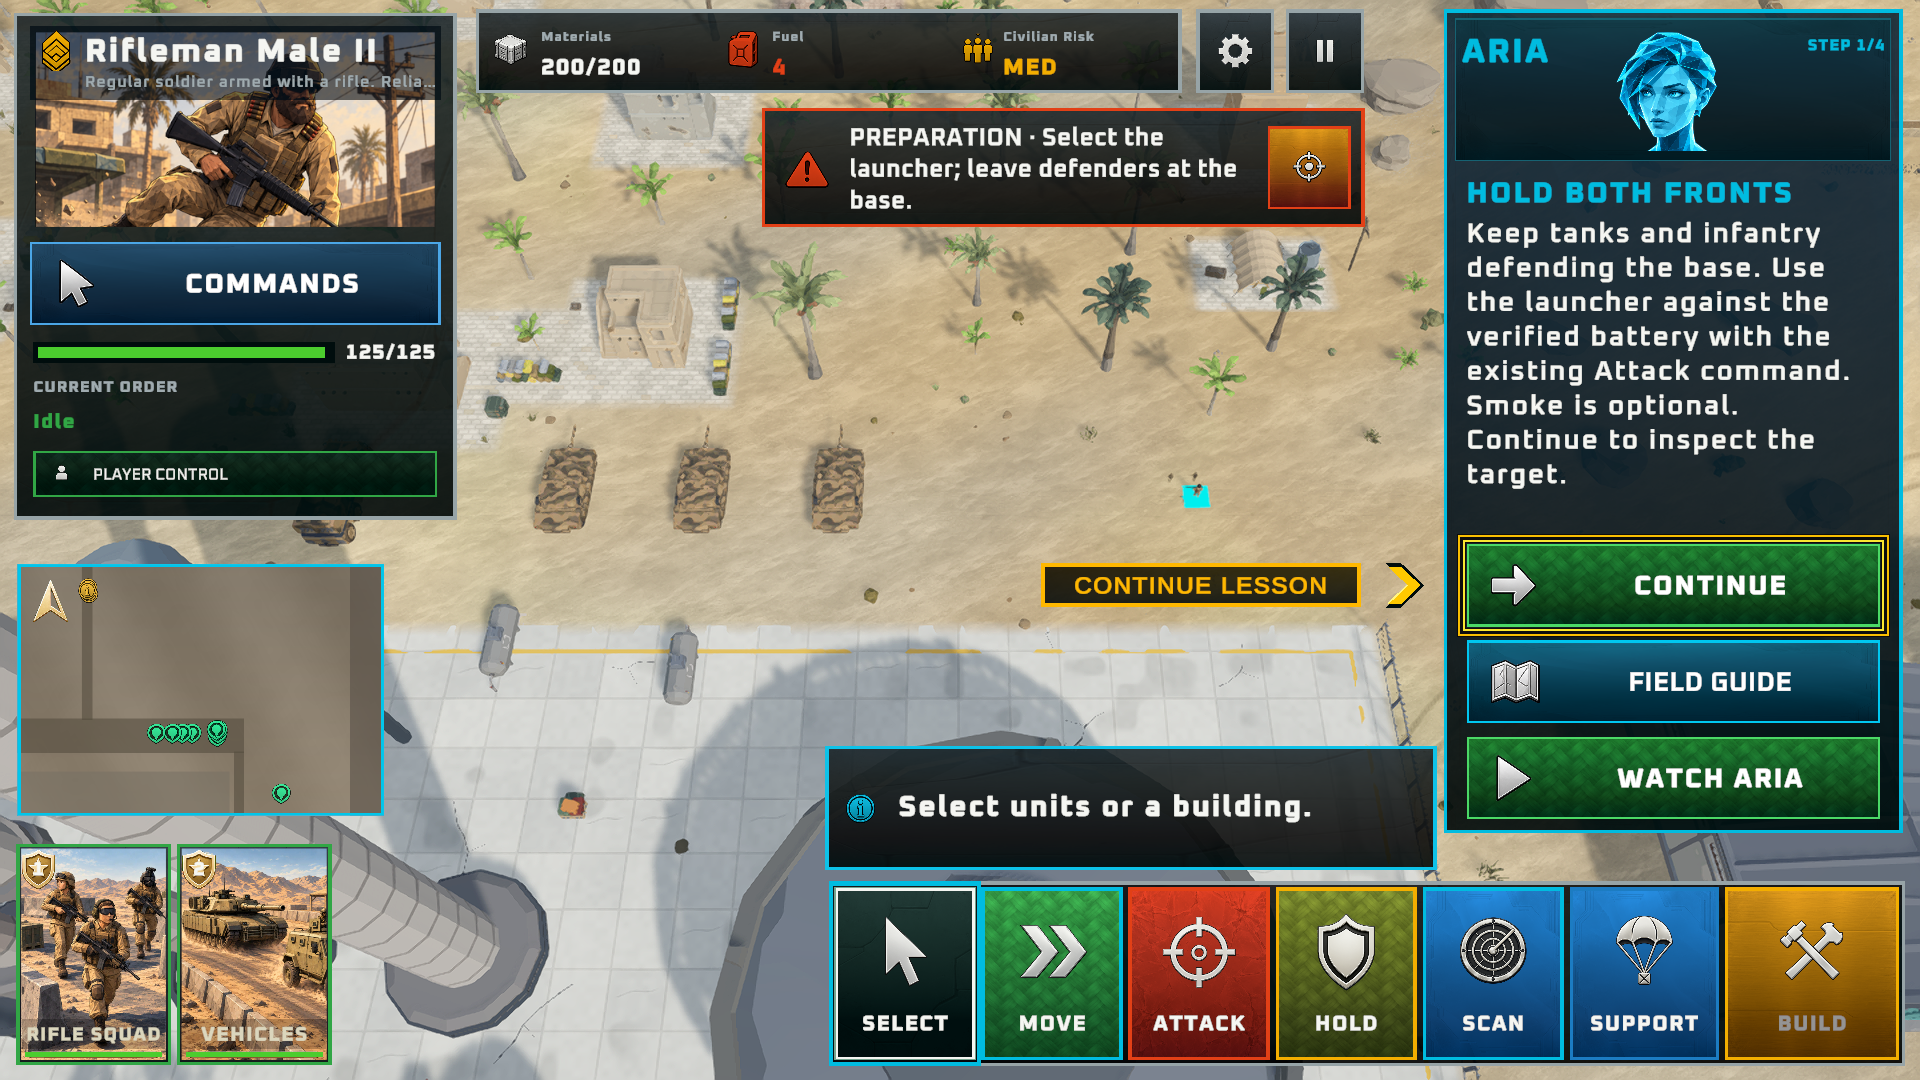
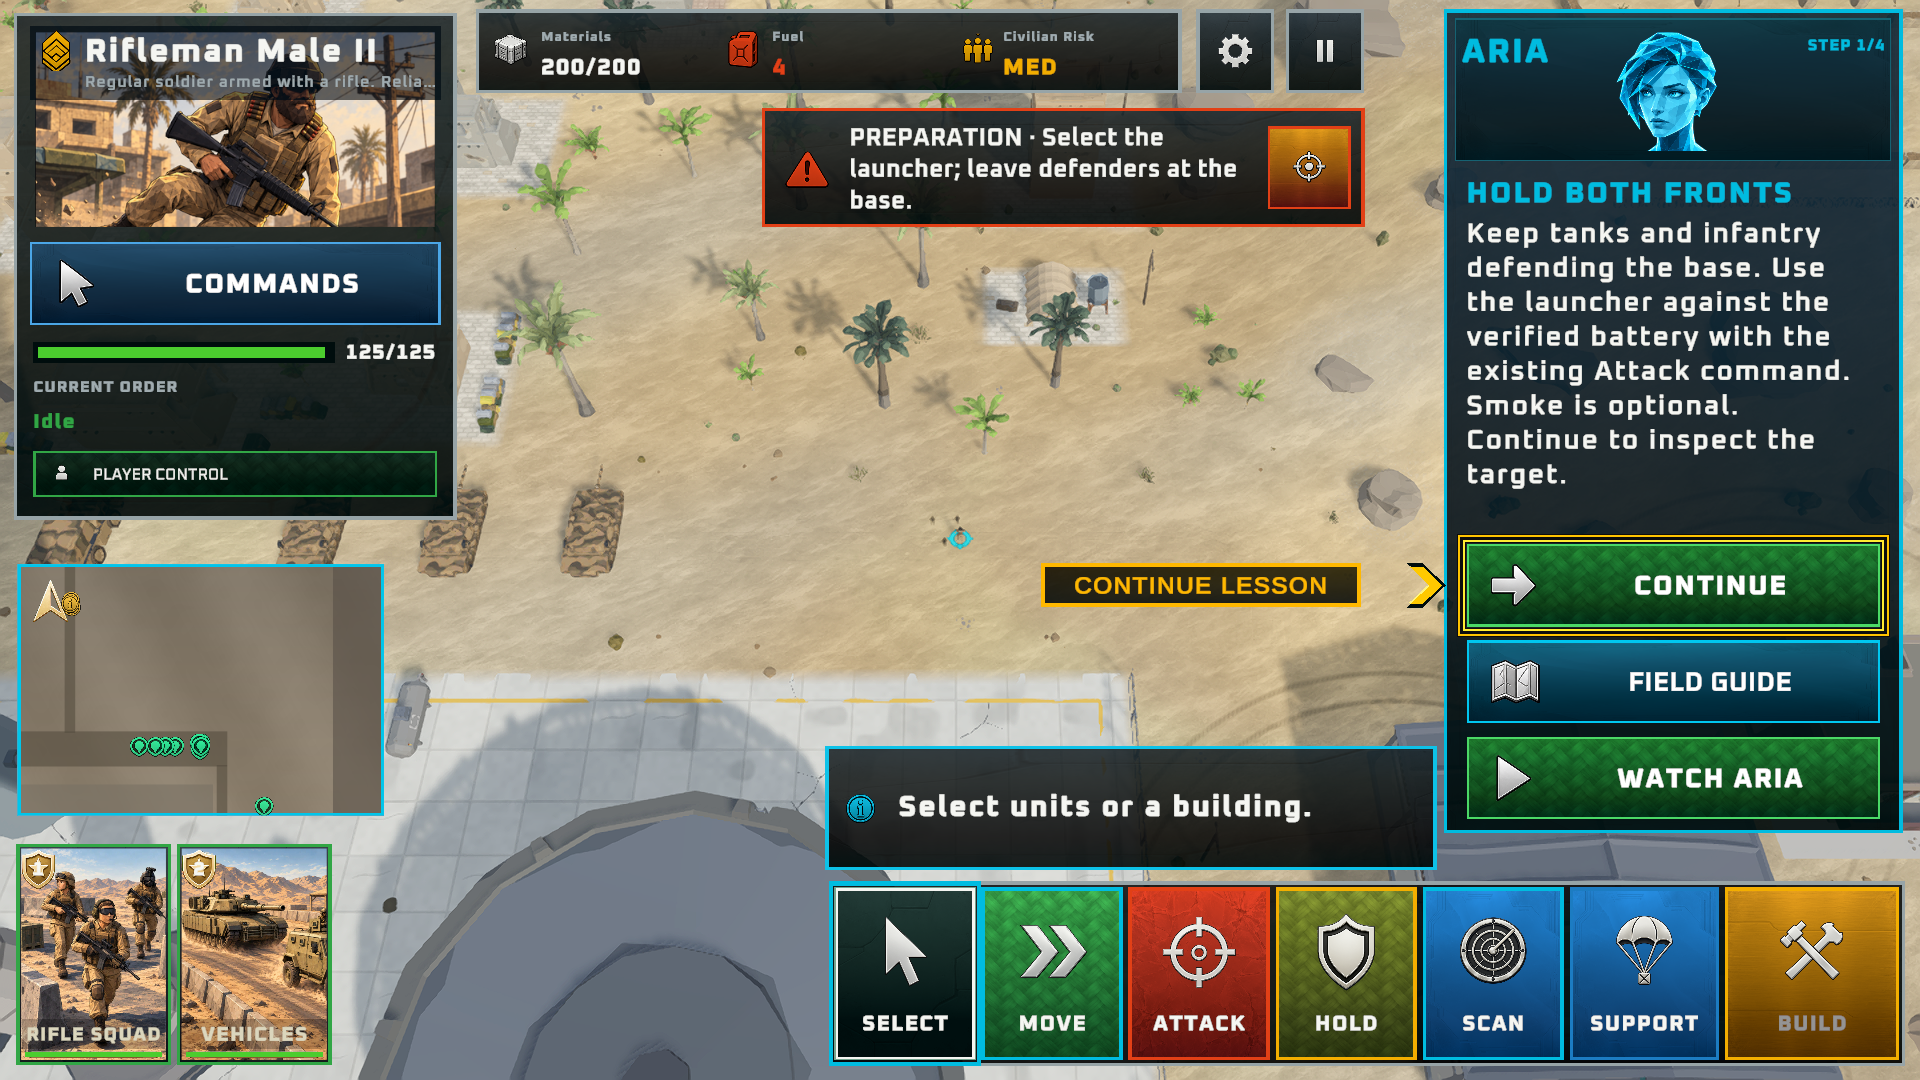
Record Board 6 partial capture and recovery dialog

diff --git a/Design/Orchestration/windows_dev_results/2026-11-20-ui-c-selection-markers.md b/Design/Orchestration/windows_dev_results/2026-11-20-ui-c-selection-markers.md
@@ -59,3 +59,23 @@ Follow-up evidence root is `/Volumes/T7/Projects/WarlineCapture-program-logs/cod
 | Counted-style ARIA regression | Pending. The follow-up did not launch the queue, including the S002 and S043 retries. The prior S002 Gate 3 failure at `aria/unity.log:151790` and S043 startup timeout at `aria/unity.log:180092` are under the original evidence root. |
 
 The prior 2400×1080 log shows that the launcher lesson had a world target at `native-2400.log:3337` and the fixture timed out at `:4000`. There was no world gesture between the lesson’s Continue touch and the timeout. The follow-up needs a new native run to establish whether an ordinary tap can select the launcher at each aspect ratio.
+
+## Board 6 follow-up 2
+
+Evidence root is `/Volumes/T7/Projects/WarlineCapture-program-logs/codexlab/ui-c-fix2-selection-markers/`. The work ran on `missions/ui-c-fix2-selection-markers` from `3f7621d61`.
+
+| Check | Result and evidence |
+| --- | --- |
+| Initial C# compile | Tundra built successfully with zero `error CS` at `editmode.log:724`, before the first capture. |
+| Initial marker EditMode | Passed 19 of 19 at `editmode.log:1471`. The focused render test saw an open centre. |
+| First EN 1920×1080 capture | The launcher received an unobstructed touch at `native-1920.log:2329` and `:2346`, and the selected launcher frame was recorded at `:2394`. The infantry frame at `:2157` still showed solid cyan patches. Zoom-in stalled at `:3091`, and the gate failed with four frames at `:8937`. |
+| Infantry mesh authoring | Tundra built the revised source with zero `error CS` at `apply-infantry-ring.log:726`. The prefab authoring method passed at `:1402`. |
+| EN 1920×1080 retry | Seven frames. Infantry used the revised mesh at `native-1920-retry.log:2152` and showed an open ring in the frame at `:2178`. The vehicle frame is at `:2288`. The launcher tap began and ended at `:2425` and `:2441`, and selection was recorded at `:2489`. |
+| Zoom frames | Near and far views were captured at `native-1920-retry.log:2522` and `:2753`, at camera heights 15.05 and 74.35. The fixture used camera requests at `:2506`, `:2536` and `:2629` because the HUD offered no reachable zoom button. |
+| Attack preview and accepted | Frames at `native-1920-retry.log:2999` and `:3060`, with the target touch at `:3027` and `:3043`. Launcher command acceptance is logged at `:3139`. The preview frame shows the cyan guide prominently. The accepted frame still shows a large missile impact-area circle from `SplitFrontLauncherHudView` around the compact target glyph. |
+| Move and retry gate | Move was accepted on the first attempt, with a frame at `native-1920.log:8864`. Refinery geometry obscures the endpoint. After the retry's Attack, the pointer trace showed a mismatched press and release at `native-1920-retry.log:3201` and `:3272`. The retry stalled while reselecting the tank at `:5242` and again while publishing the result at `:7327`. The verified lab Editor was stopped after the stall, and the wrapper exited 143. See `native-1920-retry-stop.txt:1` and `:2`. |
+| Final compile and EditMode | Stopped before compilation. The startup process sample shows `HandleDanglingSceneBackups` at `editmode-final-startup.sample:50` and a native modal at `:54`. The scene backup remained available, and the wrapper exited 143 at `editmode-final-stop.txt:2`. |
+
+The last fixture revision captures Move while the tank is already selected, spaces out touches, and evaluates the unchanged eight-frame gate before checking input restrictions. The startup dialog prevented compilation and execution of that revision.
+
+The EN 2400×1080 rerun, six-job ARIA queue, Gate 3 and conditional S002 and S043 fa-IR retries remain pending. The previous S002 unused-role failure and S043 timeout above are still the latest ARIA evidence for this board. Real-player and device acceptance remain pending.

diff --git a/Design/AgentReports/MatchUiPolish/Implemented/ui-c-selection-markers/compare.md b/Design/AgentReports/MatchUiPolish/Implemented/ui-c-selection-markers/compare.md
@@ -8,18 +8,18 @@ The owner approved the [Board 6 mockup](../../selection-target-markers.png) as t
 
 ## Native evidence
 
-The frames below are from the original Board 6 run. The follow-up adjusted the selection shader to sample the quad’s UVs and limit coverage outside the ring and ticks. Its first capture launch stopped at a Unity startup dialog after a C# compilation error. The source correction and revised visuals await native validation. [Follow-up evidence](../../../../Orchestration/windows_dev_results/2026-11-20-ui-c-selection-markers.md#board-6-follow-up)
+The lab captured seven EN states at 1920×1080 with the revised infantry mesh and zoom fixture. An earlier attempt captured Move and failed the eight-frame gate. The retry stopped before publishing the gate result. The 2400×1080 column contains evidence from the original Board 6 build. [Follow-up 2 evidence](../../../../Orchestration/windows_dev_results/2026-11-20-ui-c-selection-markers.md#board-6-follow-up-2)
 
-| State | 1920×1080 | 2400×1080 |
+| State | 1920×1080 follow-up 2 | 2400×1080 original |
 | --- | --- | --- |
 | Infantry selected | [Frame](./en-1920x1080-infantry-selected.png) | [Frame](./en-2400x1080-infantry-selected.png) |
 | Vehicle selected | [Frame](./en-1920x1080-vehicle-selected.png) | [Frame](./en-2400x1080-vehicle-selected.png) |
-| Large unit selected | Missing | Missing |
-| Zoom in and out | Missing | Missing |
-| Attack preview and accepted | Missing | Missing |
-| Move accepted | [Frame](./en-1920x1080-move-accepted.png) | [Frame](./en-2400x1080-move-accepted.png) |
+| Launcher selected | [Frame](./en-1920x1080-large-unit-selected.png) | Pending |
+| Zoom in and out | [In](./en-1920x1080-zoom-in.png), [out](./en-1920x1080-zoom-out.png) | Pending |
+| Attack preview and accepted | [Preview](./en-1920x1080-attack-preview.png), [accepted](./en-1920x1080-attack-accepted.png) | Pending |
+| Move accepted | [Earlier attempt](./en-1920x1080-move-accepted.png) | [Frame](./en-2400x1080-move-accepted.png) |
 
-The infantry mark looks filled at the captured camera distance in both 1920×1080 runs. The isolated EditMode render resolved an open centre. Both Move orders were accepted through touch. The green endpoint is partly visible beside a tank at 1920×1080, and the tank obscures it at 2400×1080. Launcher selection stalled in both aspect ratios, so the large-unit, zoom and Attack states remain unverified. Capture attempts and their first failures are listed in the [validation note](../../../../Orchestration/windows_dev_results/2026-11-20-ui-c-selection-markers.md).
+The infantry frame shows an open cyan centre at nominal zoom. The launcher was selected by a normal touch at the displayed world target. The two zooms used the production camera requests from the fixture because the HUD touch could not reach a zoom control. The Move destination was obscured by refinery geometry. The Attack preview shows the cyan guide prominently, and the accepted frame shows the target brackets and centre pip alongside a separate, prominent missile impact-area circle. The 2400×1080 rerun and formal capture acceptance are pending.
 
 ## Intentional differences
 
@@ -32,6 +32,7 @@ The infantry mark looks filled at the captured camera distance in both 1920×108
 ## Art assets
 
 - `Assets/Game/Rendering/Shaders/TacticalMarker.shader`
+- `Assets/Game/Rendering/Meshes/Selection/Tactical_InfantryRing.asset`
 - `Assets/Game/Rendering/Materials/Selection/TacticalMarkerSelection.mat`
 - `Assets/Game/Rendering/Materials/Selection/TacticalMarkerMove.mat`
 - `Assets/Game/Rendering/Materials/Selection/TacticalMarkerAttack.mat`
